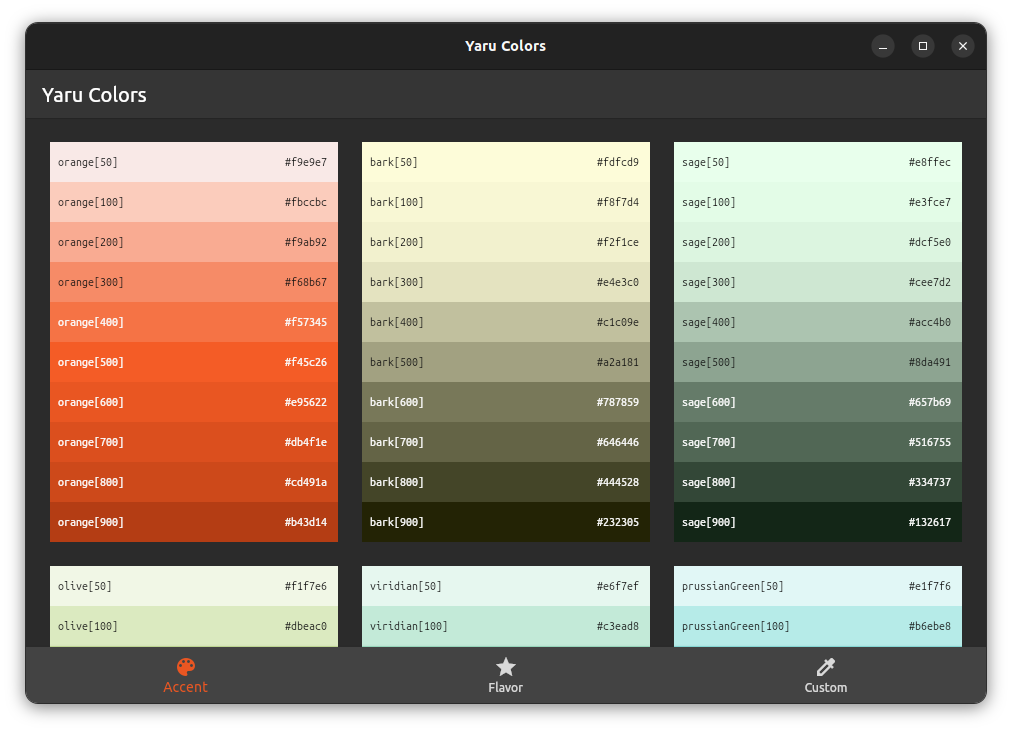
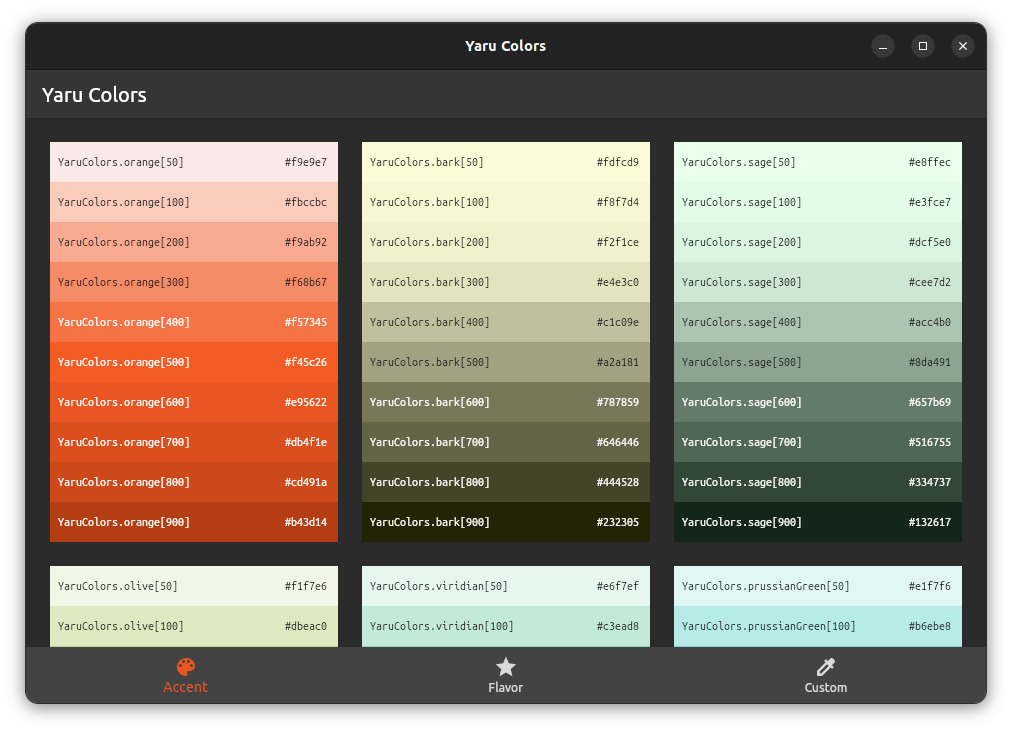
Fix example and update screenshots
The 'custom' color should not have a YaruColors. -prefix.

diff --git a/packages/yaru_colors/example/lib/main.dart b/packages/yaru_colors/example/lib/main.dart
@@ -8,25 +8,25 @@ const tileHeight = 40.0;
 const tileSpacing = 24.0;
 
 const accentColors = {
-  'orange': YaruColors.orange,
-  'bark': YaruColors.bark,
-  'sage': YaruColors.sage,
-  'olive': YaruColors.olive,
-  'viridian': YaruColors.viridian,
-  'prussianGreen': YaruColors.prussianGreen,
-  'blue': YaruColors.blue,
-  'purple': YaruColors.purple,
-  'magenta': YaruColors.magenta,
-  'lightRed': YaruColors.lightRed,
+  'YaruColors.orange': YaruColors.orange,
+  'YaruColors.bark': YaruColors.bark,
+  'YaruColors.sage': YaruColors.sage,
+  'YaruColors.olive': YaruColors.olive,
+  'YaruColors.viridian': YaruColors.viridian,
+  'YaruColors.prussianGreen': YaruColors.prussianGreen,
+  'YaruColors.blue': YaruColors.blue,
+  'YaruColors.purple': YaruColors.purple,
+  'YaruColors.magenta': YaruColors.magenta,
+  'YaruColors.lightRed': YaruColors.lightRed,
 };
 
 const flavorColors = {
-  'kubuntuBlue': YaruColors.kubuntuBlue,
-  'lubuntuBlue': YaruColors.lubuntuBlue,
-  'ubuntuBudgieBlue': YaruColors.ubuntuBudgieBlue,
-  'ubuntuMateGreen': YaruColors.ubuntuMateGreen,
-  'ubuntuStudioBlue': YaruColors.ubuntuStudioBlue,
-  'xubuntuBlue': YaruColors.xubuntuBlue,
+  'YaruColors.kubuntuBlue': YaruColors.kubuntuBlue,
+  'YaruColors.lubuntuBlue': YaruColors.lubuntuBlue,
+  'YaruColors.ubuntuBudgieBlue': YaruColors.ubuntuBudgieBlue,
+  'YaruColors.ubuntuMateGreen': YaruColors.ubuntuMateGreen,
+  'YaruColors.ubuntuStudioBlue': YaruColors.ubuntuStudioBlue,
+  'YaruColors.xubuntuBlue': YaruColors.xubuntuBlue,
 };
 
 const shades = [50, 100, 200, 300, 400, 500, 600, 700, 800, 900];
@@ -207,7 +207,7 @@ class ColorTile extends StatelessWidget {
         height: tileHeight,
         child: Row(
           children: [
-            SelectableText('YaruColors.$name[$shade]'),
+            SelectableText('$name[$shade]'),
             const Spacer(),
             SelectableText(color.toHex()),
           ],
